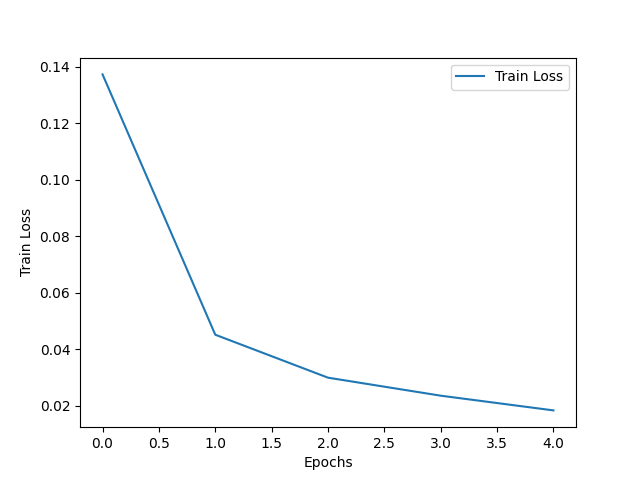
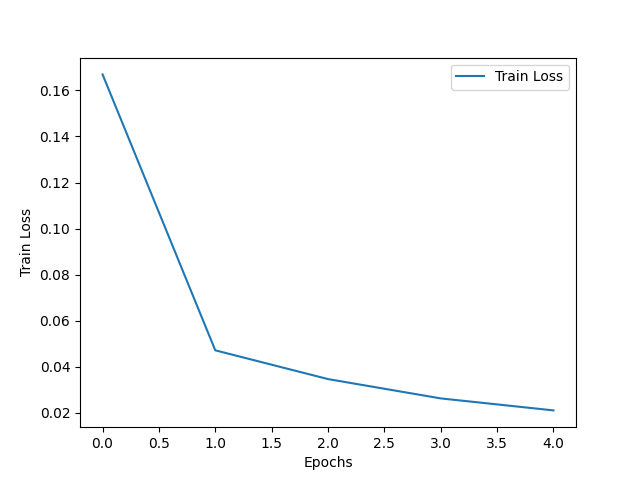
fixed 3rd conv layer

diff --git a/MNIST_CNN.py b/MNIST_CNN.py
@@ -43,12 +43,13 @@ class ConvNet(nn.Module):
         self.layer3 = nn.Sequential(
             nn.Conv2d(in_channels = 64, out_channels= 16, kernel_size= 5, stride = 1, padding = 2),
             nn.ReLU())
-        self.fc1 = nn.Linear(7 * 7 * 64, 32) # 10 is the output, we need 10 for the 10 digits of MNIST. 64 is the number of channels
+        self.fc1 = nn.Linear(7 * 7 * 16, 32) # 10 is the output, we need 10 for the 10 digits of MNIST. 64 is the number of channels
         self.fc2 = nn.Linear(32, 10)
 
     def forward(self, x):
         out = self.layer1(x)
         out = self.layer2(out)
+        out = self.layer3(out)
         out = out.reshape(out.size(0), -1)
         out = self.fc1(out)
         out = self.fc2(out)
